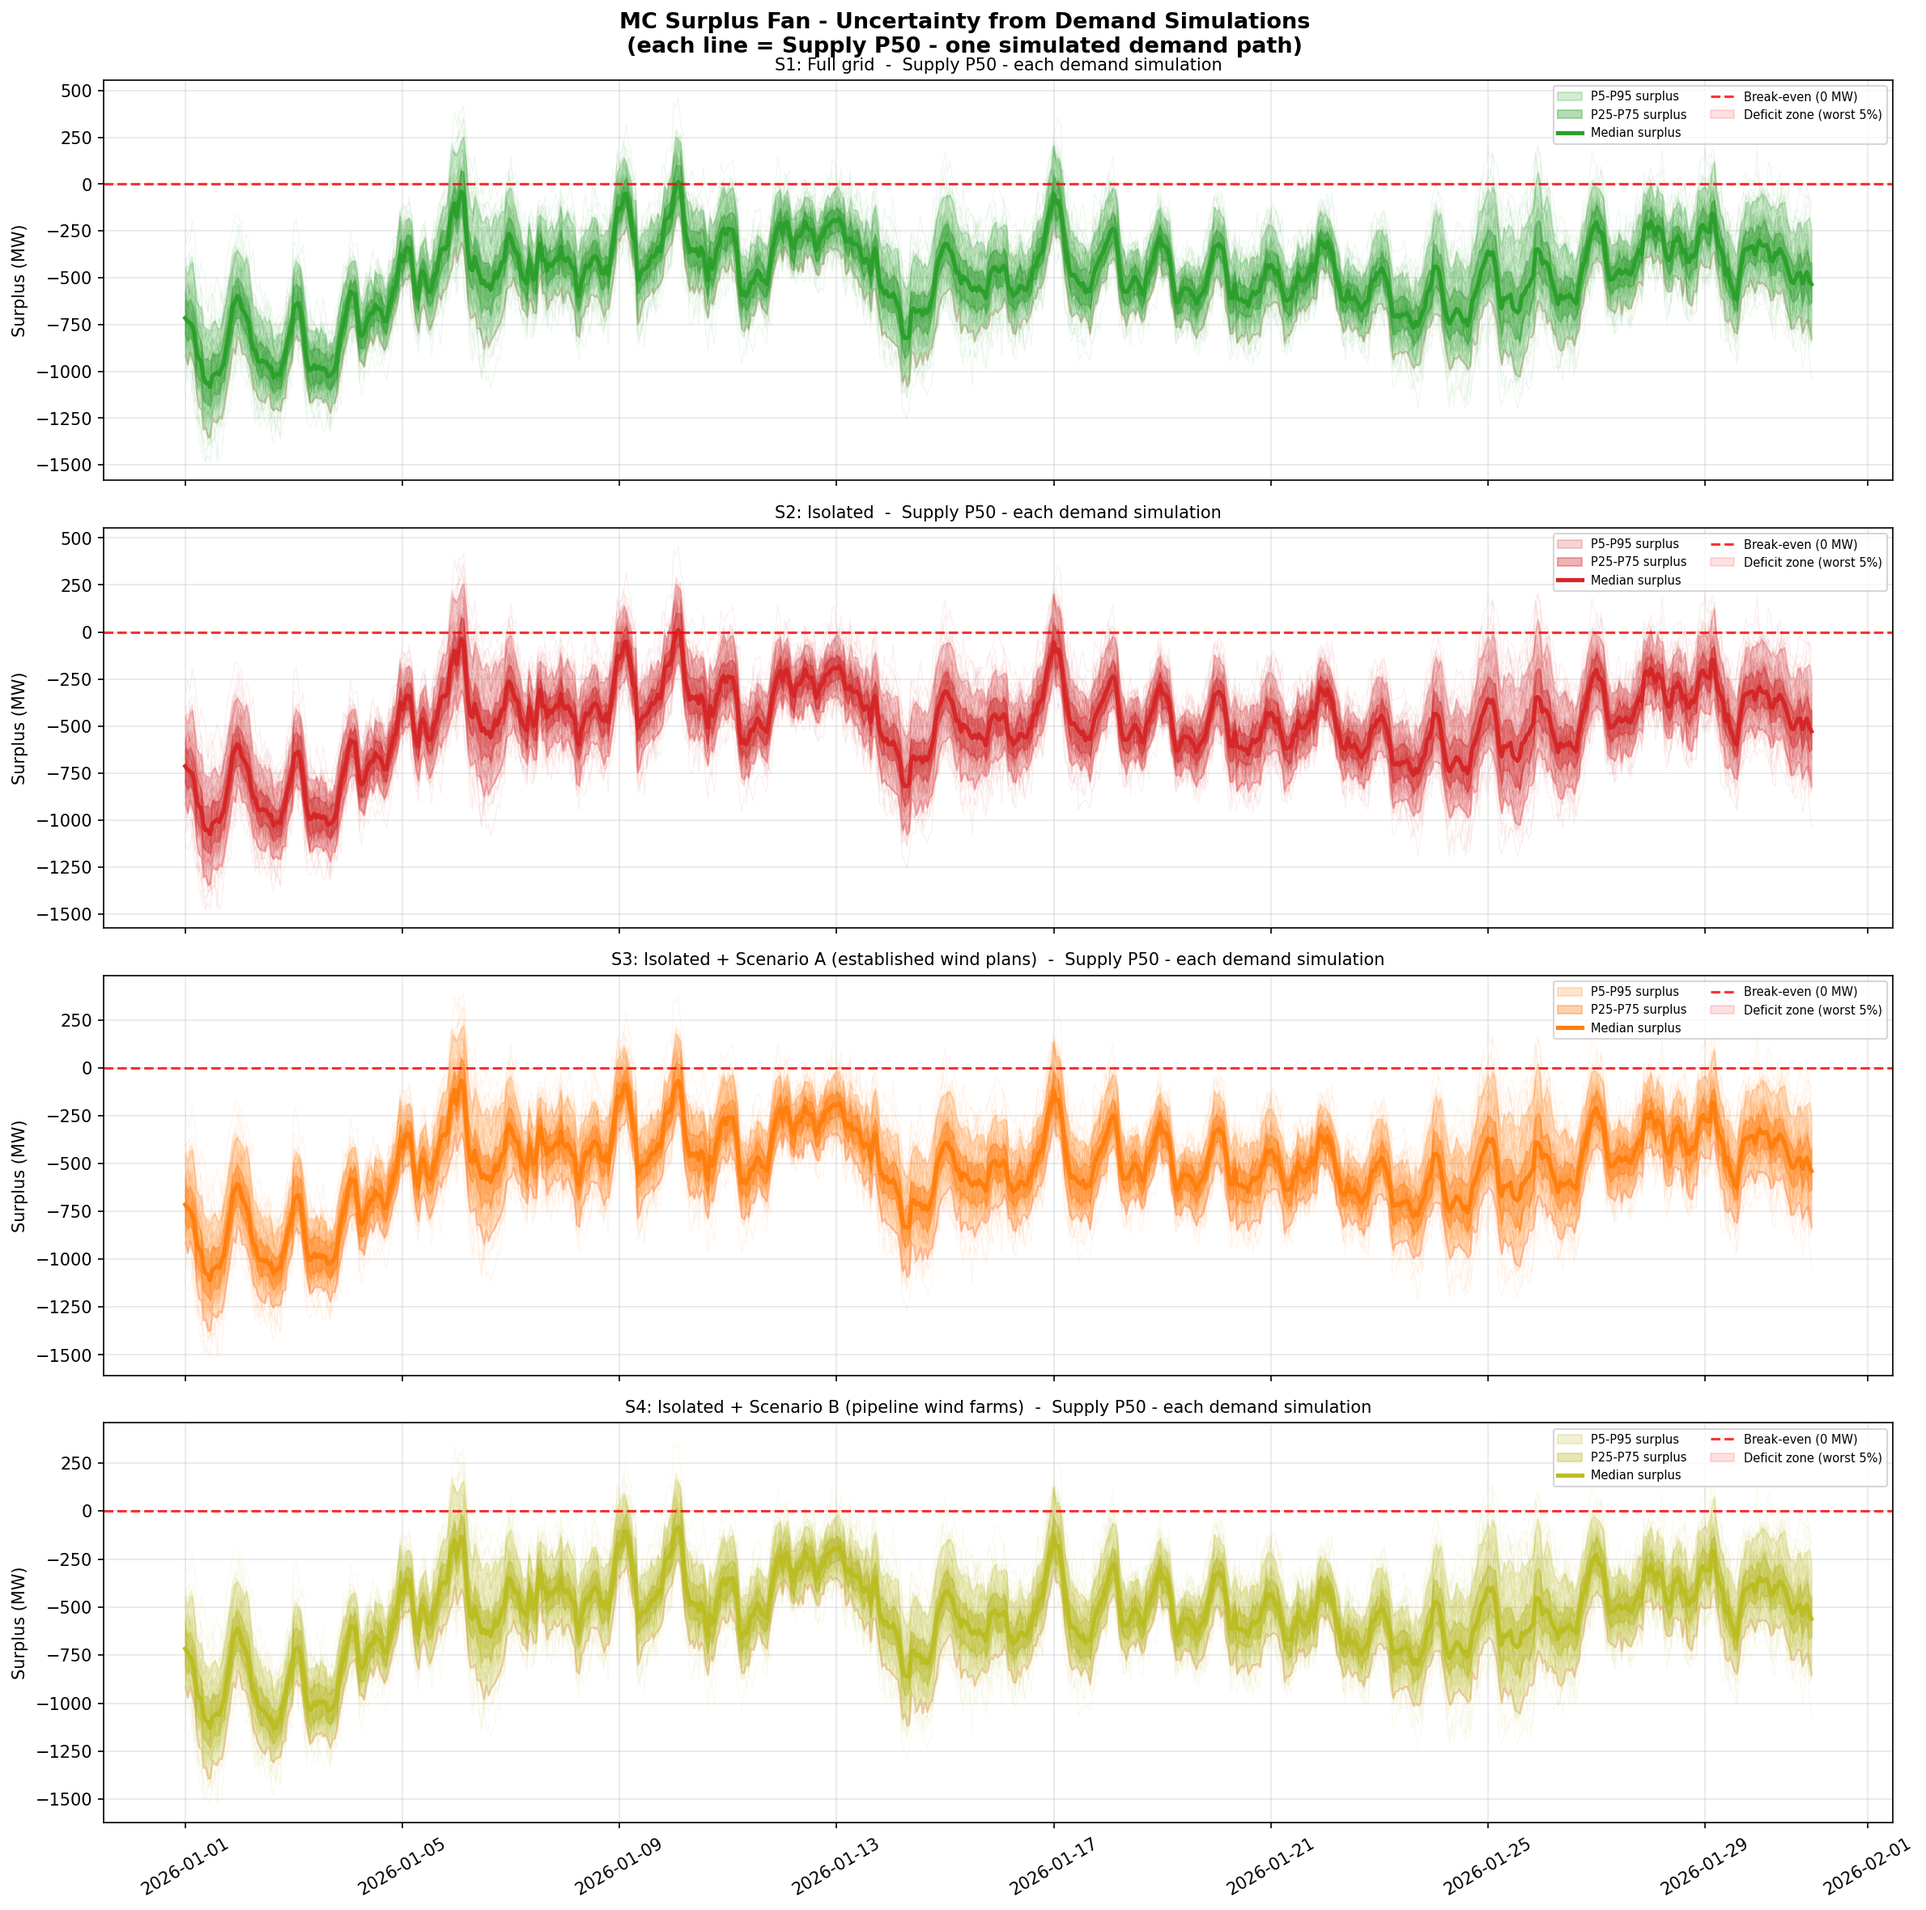
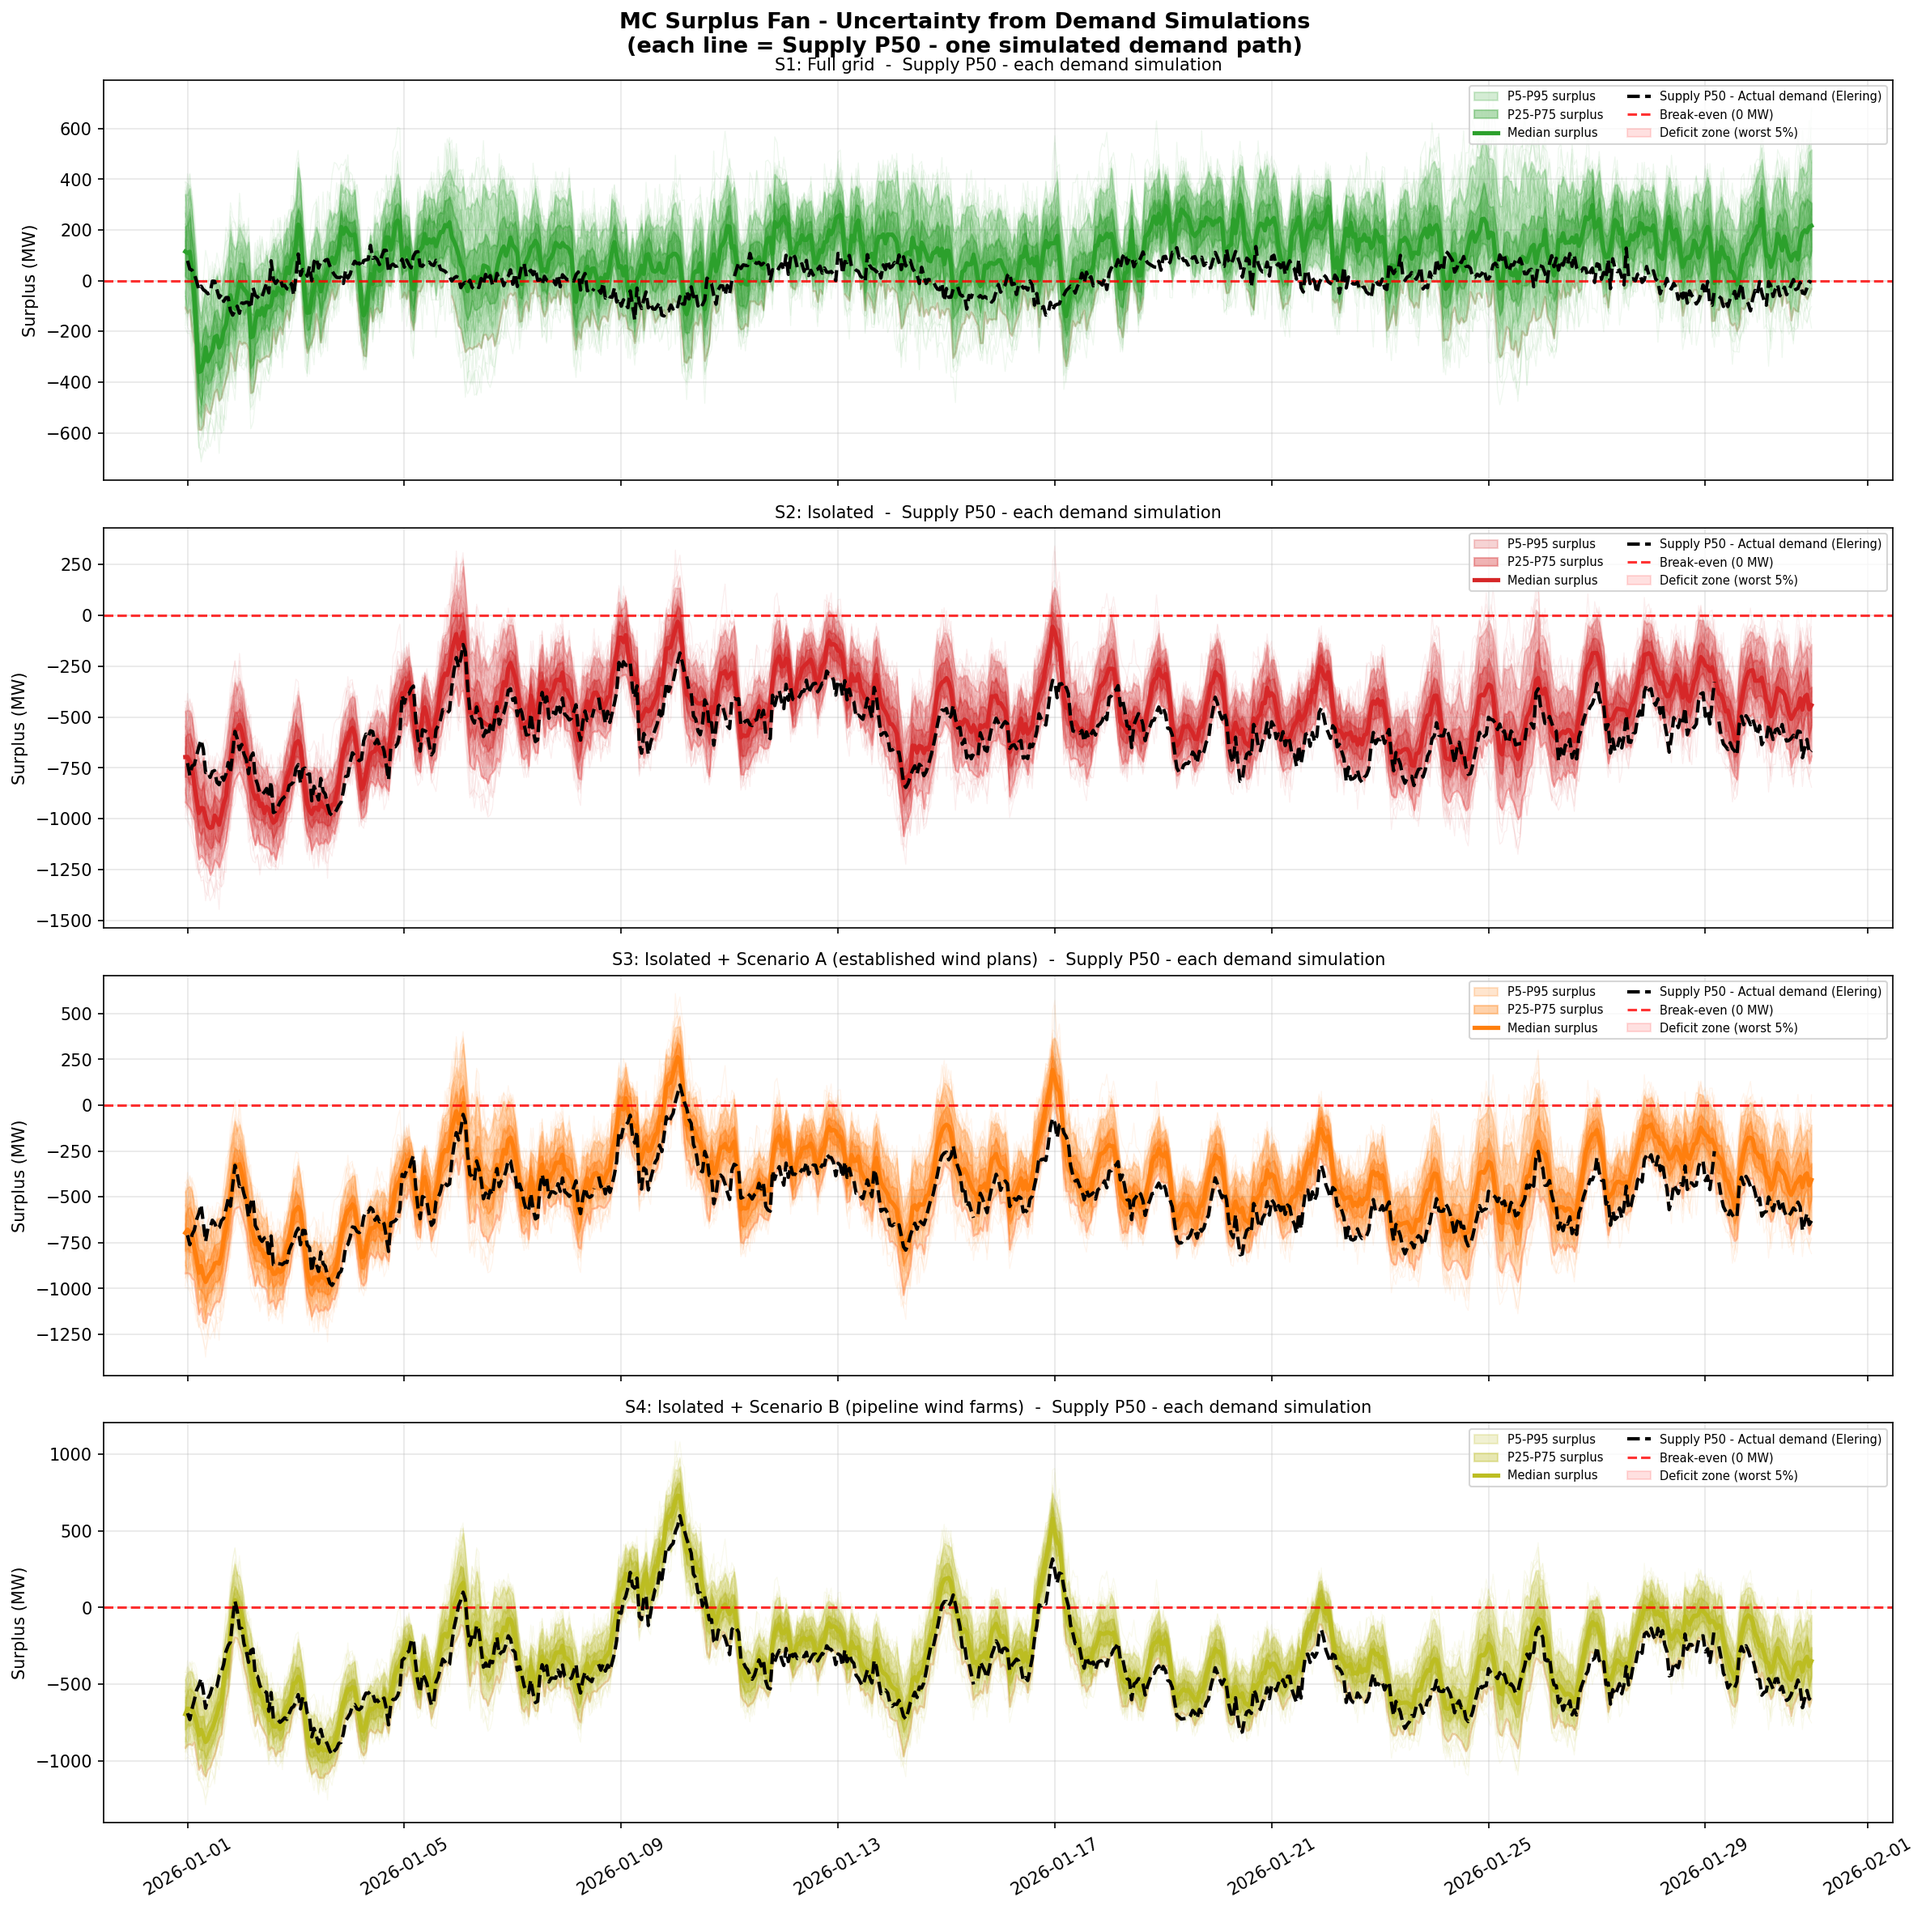
hy

diff --git a/project/sur_def.py b/project/sur_def.py
@@ -30,6 +30,7 @@ import os
 import numpy as np
 import pandas as pd
 import matplotlib.pyplot as plt
+from helper_functions_GNN import fetch_all, get_system_production
 
 SCENARIO_LABELS = {
     "s1": "S1: Full grid",
@@ -81,6 +82,7 @@ class ResilienceAnalysis:
         # Populated by load() / compute() / export_summary()
         self.supply  = None
         self.demand  = None
+        self.actual_demand = None 
         self.results = None
         self.summary = None
 
@@ -103,6 +105,10 @@ class ResilienceAnalysis:
         """Load and align supply + demand CSVs."""
         print("\n[1/3] Loading and aligning data...")
         self.supply, self.demand = self._load_and_align()
+        print("  Fetching actual surplus from Energinet API...")
+        df_system = fetch_all(get_system_production, start="2026-01-01", end="2026-02-01")
+        self.actual_demand = df_system["consumption"]
+        
         return self
 
     def compute(self):
@@ -150,8 +156,13 @@ class ResilienceAnalysis:
     def _load_and_align(self):
         supply    = pd.read_csv(self.supply_csv,    index_col=0, parse_dates=True)
         demand_mc = pd.read_csv(self.demand_mc_csv, index_col=0, parse_dates=True)
-
-        # Transpose if rows = simulations, cols = timesteps
+        demand_mc.index = pd.date_range(
+            start="2025-12-31 23:00:00",  # match your supply start
+            periods=len(demand_mc),
+            freq="h",  # 
+            tz="UTC"
+        )
+                # Transpose if rows = simulations, cols = timesteps
         if demand_mc.shape[0] < demand_mc.shape[1]:
             print(f"  Transposing demand MC: {demand_mc.shape} -> ", end="")
             demand_mc = demand_mc.T
@@ -298,6 +309,17 @@ class ResilienceAnalysis:
             ax.fill_between(idx, s_p25, s_p75, alpha=0.35, color=color,
                             label="P25-P75 surplus")
             ax.plot(idx, s_p50, color=color, lw=2.5, label="Median surplus")
+
+            #actual demand
+            if self.actual_demand is not None:
+                                # Supply P50 for dette scenarie minus faktisk demand
+                p50_vals = self.supply[f"supply_{sc}_p50"].values
+                actual_demand_aligned = self.actual_demand.reindex(idx).values
+                actual_sc_surplus = p50_vals - actual_demand_aligned
+                
+                ax.plot(idx, actual_sc_surplus,
+                        color="black", lw=2, linestyle="--",
+                        label="Supply P50 - Actual demand (Elering)", zorder=10)
             ax.axhline(0, color="red", lw=1.5, linestyle="--", alpha=0.8,
                        label="Break-even (0 MW)")
             ax.fill_between(idx, s_p05, np.minimum(s_p05, 0),
@@ -415,8 +437,8 @@ if __name__ == "__main__":
     _here = os.path.dirname(os.path.abspath(__file__))
 
     ra = ResilienceAnalysis(
-        supply_csv    = os.path.join(_here, "..", "data", "gnn_supply_scenarios1_jan2026.csv"),
-        demand_mc_csv = os.path.join(_here, "..", "data", "mc_simulation_lines_2026.csv"),
+        supply_csv    = os.path.join(_here, "..", "data", "gnn_supply_scenarios_jan2026.csv"),
+        demand_mc_csv = os.path.join(_here, "..", "data", "demand_mc_full_jan2026.csv"),
         figures_dir   = os.path.join(_here, "..", "figures"),
         data_dir      = os.path.join(_here, "..", "data"),
     )
